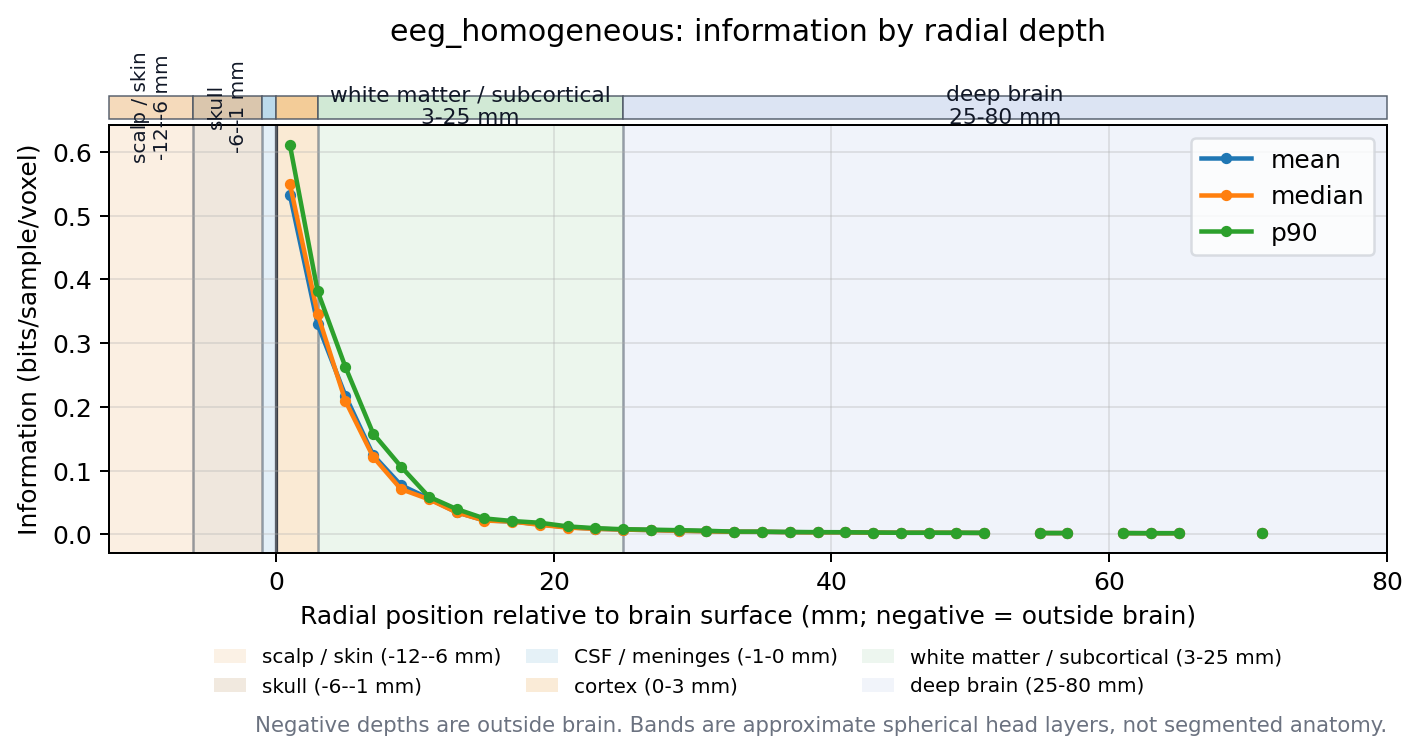
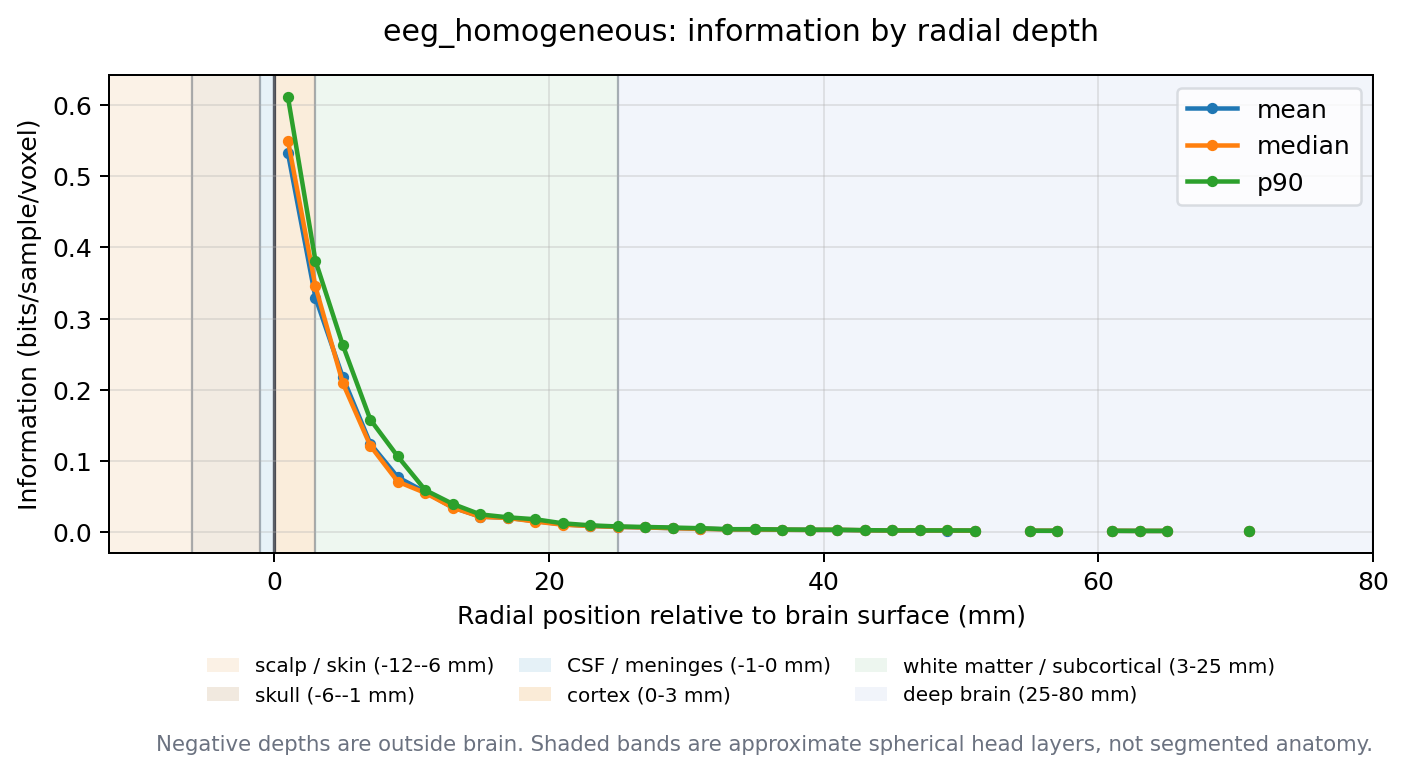
Clean up depth plot anatomy layout

diff --git a/compute_information_maps.py b/compute_information_maps.py
@@ -26,7 +26,7 @@ import json
 from pathlib import Path
 
 import matplotlib.pyplot as plt
-from matplotlib.patches import Patch, Rectangle
+from matplotlib.patches import Patch
 import numpy as np
 from scipy.linalg import cho_factor, cho_solve
 
@@ -304,8 +304,8 @@ def plot_depth_profile(name: str, profile: dict[str, np.ndarray]) -> None:
         else:
             ax.set_ylabel("Information (bits/sample/voxel)")
 
-        ax.set_xlabel("Radial position relative to brain surface (mm; negative = outside brain)")
-        ax.set_title(f"{name}: information by radial depth", pad=34)
+        ax.set_xlabel("Radial position relative to brain surface (mm)")
+        ax.set_title(f"{name}: information by radial depth", pad=14)
         ax.set_xlim(OUTER_SCALP_DEPTH_MM, BRAIN_RADIUS)
         ax.grid(True, alpha=0.3, which="both")
         add_plot_legends(ax)
@@ -330,49 +330,17 @@ def anatomy_band_handles() -> list[Patch]:
 
 def add_anatomy_depth_bands(ax) -> None:
     """Add approximate radial-depth anatomy bands behind the data."""
-    xaxis_transform = ax.get_xaxis_transform()
     for band in ANATOMICAL_DEPTH_BANDS:
         start = band["start_mm"]
         end = band["end_mm"]
-        width = end - start
-        ax.axvspan(start, end, color=band["color"], alpha=0.38, lw=0, zorder=0)
-        ax.axvline(end, color="#4b5563", linewidth=1.0, alpha=0.55, zorder=1)
-        ax.add_patch(
-            Rectangle(
-                (start, 1.015),
-                width,
-                0.055,
-                transform=xaxis_transform,
-                facecolor=band["color"],
-                edgecolor="#4b5563",
-                linewidth=0.6,
-                alpha=0.92,
-                clip_on=False,
-                zorder=5,
-            )
-        )
-
-        if width >= 5:
-            label = f"{band['label']}\n{start:g}-{end:g} mm"
-            ax.text(
-                start + width / 2,
-                1.045,
-                label,
-                transform=xaxis_transform,
-                ha="center",
-                va="center",
-                rotation=90 if width < 8 else 0,
-                fontsize=8.0 if width < 8 else 8.7,
-                color="#111827",
-                clip_on=False,
-                zorder=6,
-            )
+        ax.axvspan(start, end, color=band["color"], alpha=0.32, lw=0, zorder=0)
+        ax.axvline(end, color="#4b5563", linewidth=0.9, alpha=0.45, zorder=1)
 
     ax.axvline(0, color="#111827", linewidth=1.3, alpha=0.75, zorder=1)
     ax.text(
         1.0,
         -0.38,
-        "Negative depths are outside brain. Bands are approximate spherical head layers, not segmented anatomy.",
+        "Negative depths are outside brain. Shaded bands are approximate spherical head layers, not segmented anatomy.",
         transform=ax.transAxes,
         ha="right",
         va="top",
@@ -439,8 +407,8 @@ def plot_combined_depth_profiles(paths: list[Path], scaling: str) -> None:
         else:
             ax.set_ylabel("Mean information (bits/sample/voxel)")
 
-        ax.set_xlabel("Radial position relative to brain surface (mm; negative = outside brain)")
-        ax.set_title(f"Posterior information by radial depth ({scaling} scaling)", pad=34)
+        ax.set_xlabel("Radial position relative to brain surface (mm)")
+        ax.set_title(f"Posterior information by radial depth ({scaling} scaling)", pad=14)
         ax.set_xlim(OUTER_SCALP_DEPTH_MM, BRAIN_RADIUS)
         ax.grid(True, alpha=0.3, which="both")
         add_plot_legends(ax)
